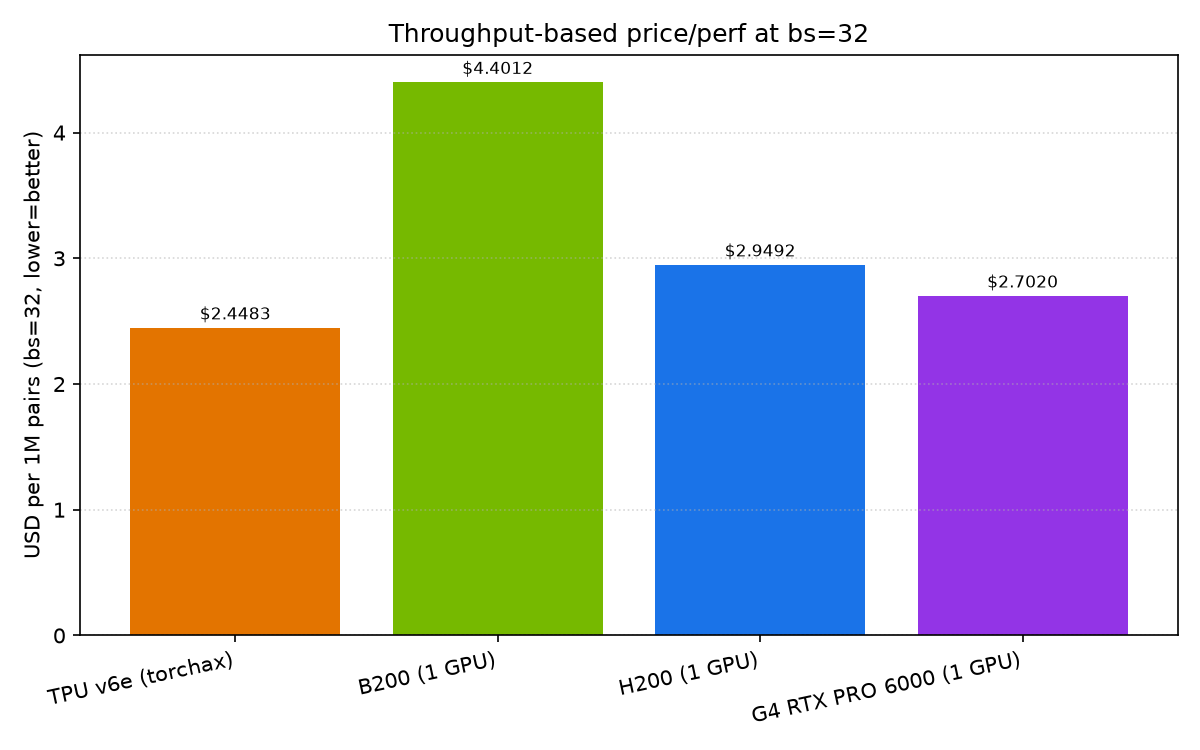
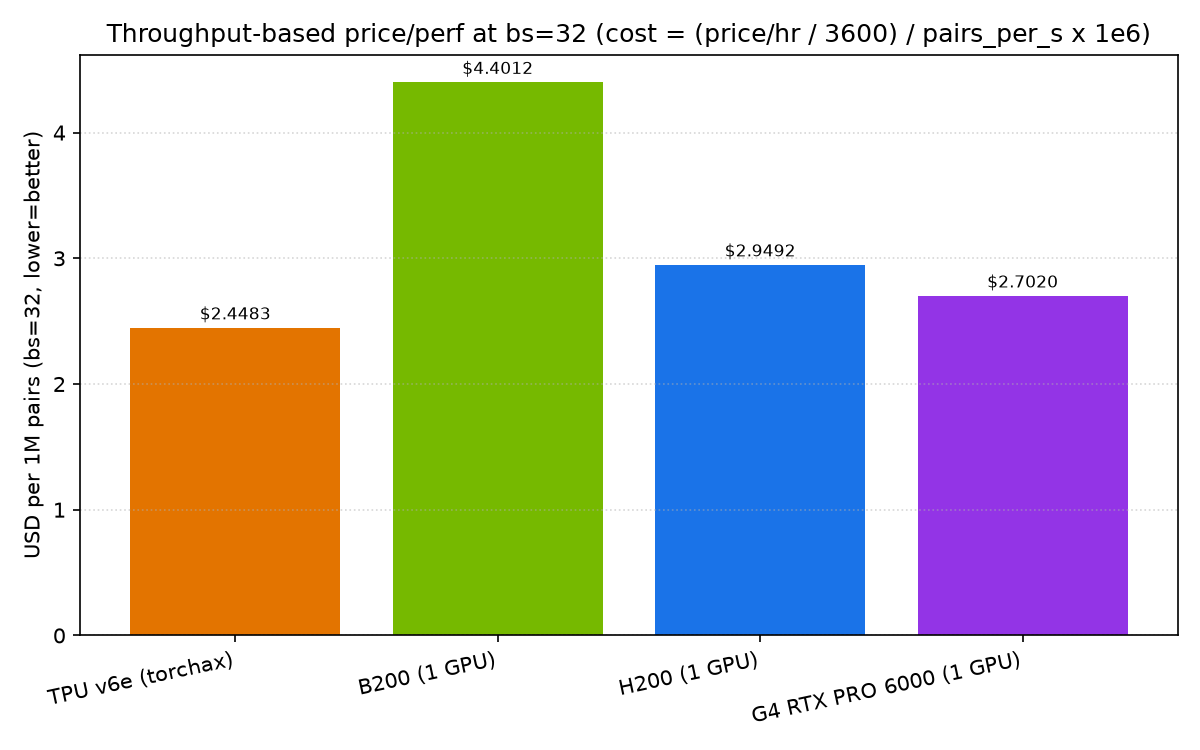
Add cost formula to throughput-based price/perf plot title (parity with latency plot)

Changed region(s): [[0.0925, 0.0307, 0.9558, 0.0613]]

diff --git a/scripts/make_latency_priceperf.py b/scripts/make_latency_priceperf.py
@@ -77,7 +77,8 @@ tp_vals = [cpm(d["price"], d["by"][BS]["throughput_pairs_per_s"]) for d in have_
 plt.figure(figsize=(8,5)); bars = plt.bar(labels, tp_vals, color=colors)
 for b, v in zip(bars, tp_vals): plt.annotate(f"${v:.4f}", (b.get_x()+b.get_width()/2, v), textcoords="offset points", xytext=(0,4), ha="center", fontsize=8)
 plt.ylabel("USD per 1M pairs (bs=32, lower=better)")
-plt.title("Throughput-based price/perf at bs=32")
+plt.title("Throughput-based price/perf at bs=32 (cost = (price/hr / 3600) / pairs_per_s x 1e6)")
+
 plt.xticks(rotation=12, ha="right"); plt.grid(True, axis="y", ls=":", alpha=0.5); plt.tight_layout()
 plt.savefig(os.path.join(CH, "priceperf_throughput_bs32.png"), dpi=150); plt.close()
 
